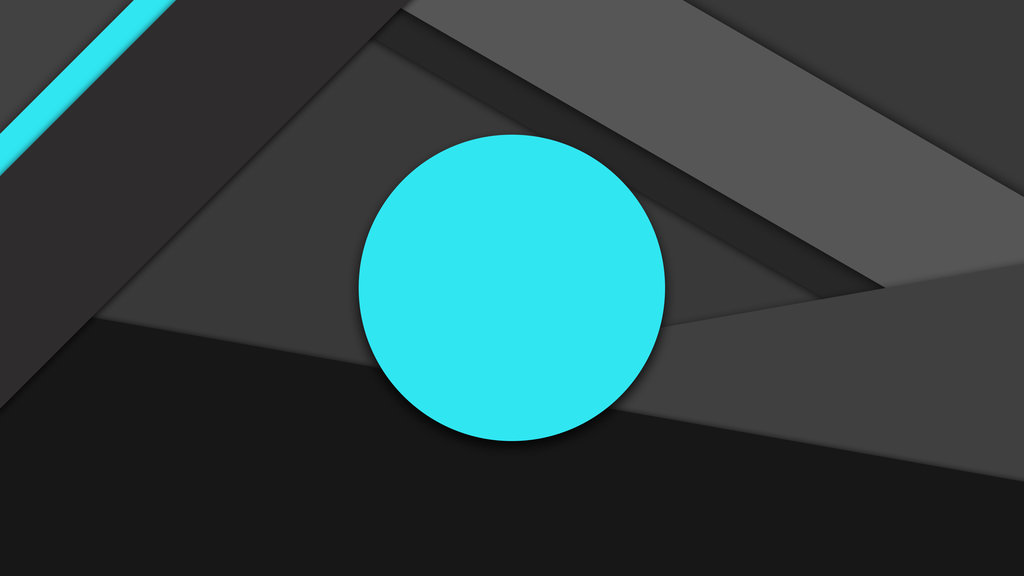
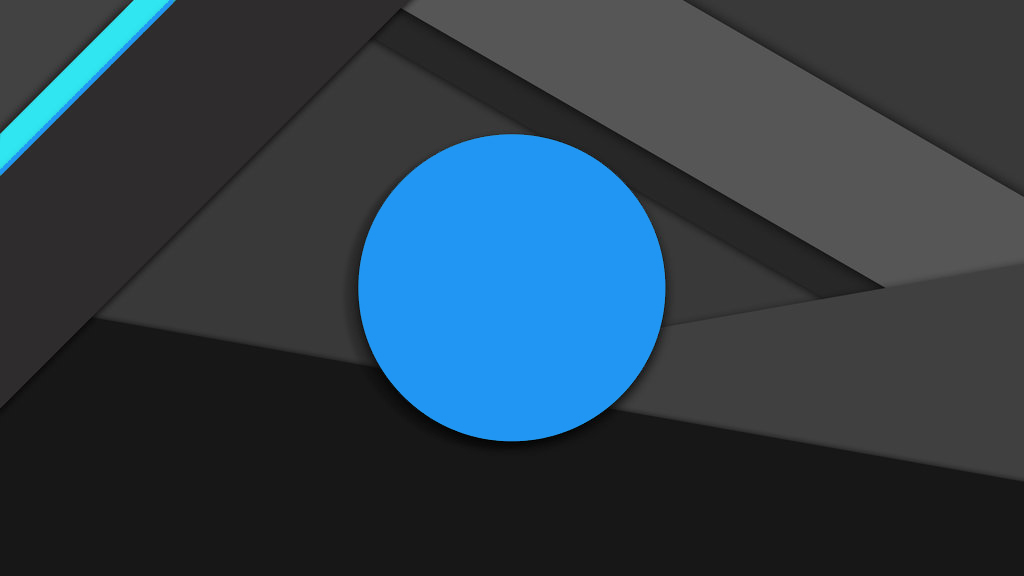
Color and material design update

diff --git a/index.html b/index.html
@@ -4,13 +4,16 @@
     <head>
         <meta charset="utf-8"/>
         <title>CodeHub</title>
-        <link rel="icon" href="img/c.ico" type="image/x-icon">
-        <meta http-equiv="X-UA-Compatible" content="IE=edge">
+        <link rel="icon" href="img/c.ico" type="image/x-icon"/>
+        <meta http-equiv="X-UA-Compatible" content="IE=edge"/>
         <meta content="width=device-width, initial-scale=1" name="viewport"/>
         <meta content="" name="description"/>
         <meta content="" name="author"/>
-        <meta name="viewport" content="width=device-width, inital-scale=1.0"
-
+        <meta name="viewport" content="width=device-width, inital-scale=1.0"/>
+        <!-- ss -->
+        <link rel="stylesheet" type="text/css" href="css/normalize.css" />
+        <link rel="stylesheet" type="text/css" href="css/demo.css" />
+        <link rel="stylesheet" type="text/css" href="css/component.css" />
         <!-- GLOBAL MANDATORY STYLES -->
         <link href="http://fonts.googleapis.com/css?family=Hind:300,400,500,600,700" rel="stylesheet" type="text/css">
         <link href="vendor/simple-line-icons/css/simple-line-icons.css" rel="stylesheet" type="text/css"/>
@@ -23,13 +26,8 @@
         <link href="css/layout.min.css" rel="stylesheet" type="text/css"/>
         <!-- Favicon -->
         <link rel="shortcut icon" href="favicon.ico"/>
-        <!-- ss -->
-    		<link rel="stylesheet" type="text/css" href="css/normalize.css" />
-    		<link rel="stylesheet" type="text/css" href="css/demo.css" />
-    		<link rel="stylesheet" type="text/css" href="css/component.css" />
-    		<script src="js/modernizr.min.js"></script>
 
-        <style>p.indent{ padding-left: 2.8em }</style>
+            <style>p.indent{ padding-left: 2.8em }</style>
     </head>
     <!-- END HEAD -->
 
@@ -301,6 +299,7 @@
 </div>
         </div><!-- /container -->
 
+
 <p class="indent"></p>
 
   <section class="descriptio0n">
@@ -362,6 +361,7 @@
         <script src="js/components/masonry.min.js" type="text/javascript"></script>
         <script src="js/components/gmap.min.js" type="text/javascript"></script>
 
+    		<script src="js/modernizr.min.js"></script>
         <script src="js/classie.js"></script>
         <script src="js/photostack.js"></script>
         <script>
